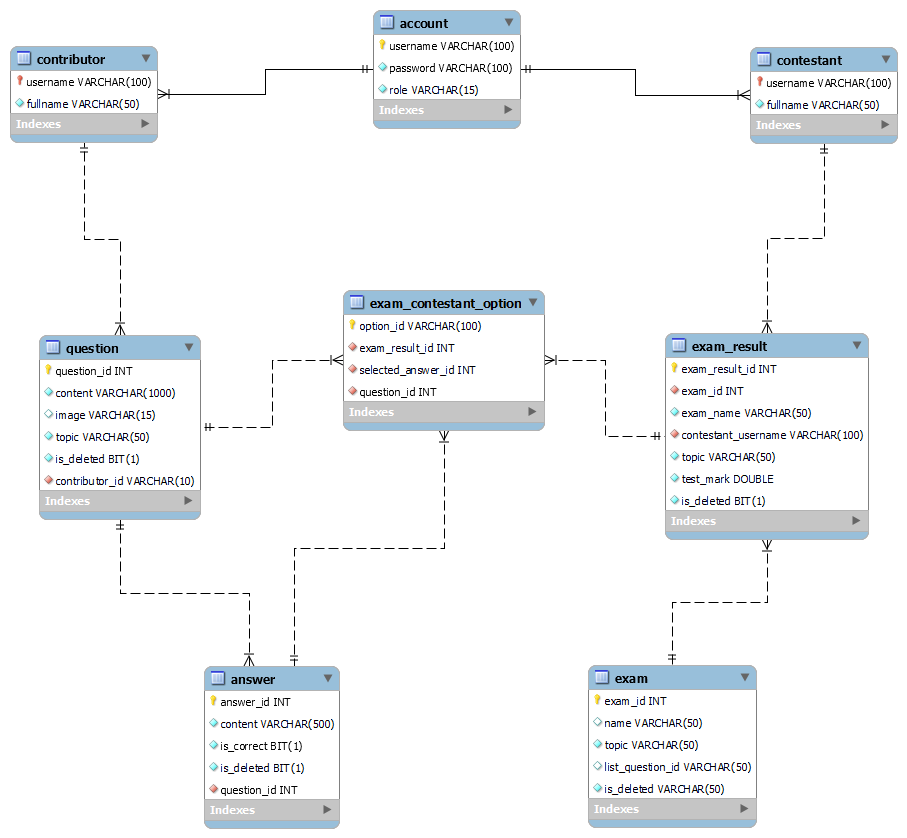
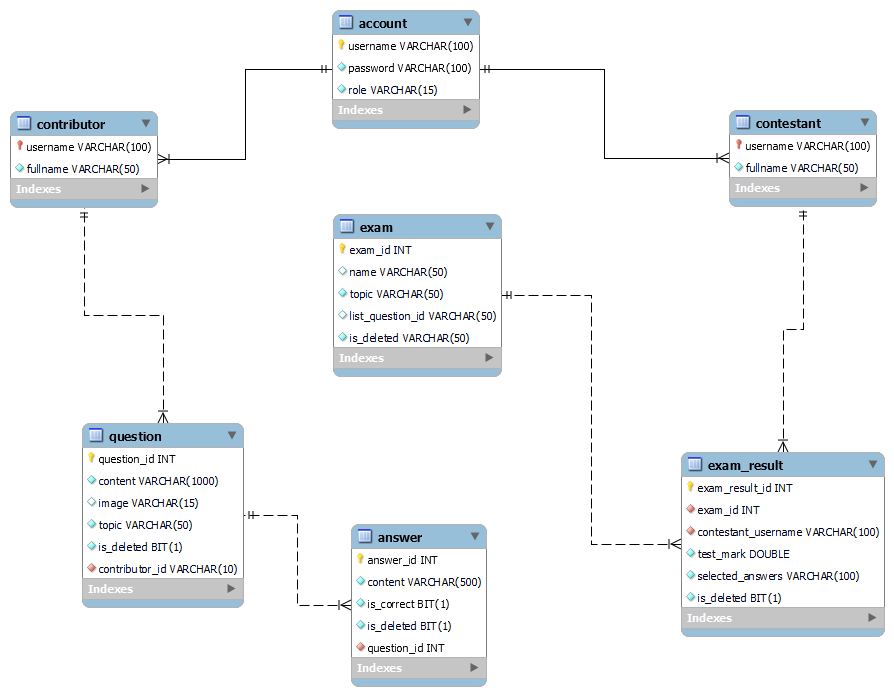
update exam_result table in DB, update ExaResult API

diff --git a/IFI_Fresher_Test/src/main/resources/ifi-fresher-test/src/app/components/contestant/exam/exam.component.ts b/IFI_Fresher_Test/src/main/resources/ifi-fresher-test/src/app/components/contestant/exam/exam.component.ts
@@ -1,8 +1,9 @@
 import { Component, OnInit } from '@angular/core';
 import { Router } from '@angular/router';
 import * as $ from 'jquery';
-import { EXAM_QUESTION_NUMBER } from 'src/app/models/constant';
+
 import { Exam } from 'src/app/models/exam-model';
+import { ExamResult } from 'src/app/models/exam-result-model';
 import { ExamService } from 'src/app/services/exam/exam.service';
 @Component({
   selector: 'app-exam-contestant',
@@ -13,9 +14,11 @@ export class ContestantExamComponent implements OnInit {
 
   exam?: Exam;
 
+  examResult?: ExamResult;
+
   examTime: number = 1800;
 
-  totalQuestion?: number;
+  selected_answer: string = "";
 
   constructor(public router:Router ,private examService: ExamService) { }
 
@@ -24,13 +27,14 @@ export class ContestantExamComponent implements OnInit {
   }
 
   showExamResult() {
-    $('.check-quiz').addClass('hide');
-    $('.exam-result').removeClass('hide').addClass('show');
-
-    if (this.exam?.topic === "Synthesis") {
-      this.totalQuestion = EXAM_QUESTION_NUMBER.ALL_TOPIC;
-    } else {
-      this.totalQuestion = EXAM_QUESTION_NUMBER.ONE_TOPIC;
+    for (let i = 0; i < this.exam!.questionList.length; i++) {
+      if (i === this.exam!.questionList.length-1) {
+        this.selected_answer += $('input:radio[name='+(i+1)+']:checked').attr('id');
+      } else {
+        this.selected_answer += $('input:radio[name='+(i+1)+']:checked').attr('id') + ",";
+      }
     }
+    
+    this.examService.submitExam(this.examResult!)
   }
 }

diff --git a/IFI_Fresher_Test/src/main/resources/ifi-fresher-test/src/app/components/contestant/exam-result/exam-result.component.html b/IFI_Fresher_Test/src/main/resources/ifi-fresher-test/src/app/components/contestant/exam-result/exam-result.component.html
@@ -5,13 +5,11 @@
         <h1 class="exam-topic">Câu hỏi trắc nghiệm chủ đề {{exam?.topic}}</h1>
         <h2 class="exam-name">{{exam?.name}}</h2>
       </div>
-      <div class="col-md-12 exam-time">
-        <countdown [config]="{ leftTime: examTime }"></countdown>
-      </div>
       <div id="contestant-info">
         <div class="form-group col-md-12" style="display: flex; align-items: center;">
           <label class="label col-md-2" for="fullName">Tên người dùng <span>*</span> :</label>
           <input type="text" class="form-control col-md-10" name="username" id="username" placeholder="Nhập tên người dùng">
+          <div class="form-control col-md-10" name="username" id="username">{{examResult?.contestantUsername}}</div>
         </div>
       </div>
     </div>
@@ -24,10 +22,9 @@
       </ul>
     </div>
     <div class="exam-check">
-      <div *ngIf="!this.router.url.includes('exam/result/')">
-        <button type="submit" class="btn btn-primary check-quiz" (click)="showExamResult()" routerLink="/contestant/exam/result/{{exam?.examID}}">Nộp bài</button>
-      </div>
-
+      <div>Tổng số câu trả lời đúng: {{"corrected"}}/{{totalQuestion}}</div>
+      <div> Số điểm bạn đạt được: {{"mark"}} điểm.</div>
     </div>
   </form>
 </div>
+

diff --git a/IFI_Fresher_Test/src/main/resources/ifi-fresher-test/src/app/services/exam/exam.service.ts b/IFI_Fresher_Test/src/main/resources/ifi-fresher-test/src/app/services/exam/exam.service.ts
@@ -1,8 +1,9 @@
 import { Injectable } from '@angular/core';
 import { Observable, of } from 'rxjs';
-import { HttpClient, HttpHeaders } from '@angular/common/http'
+import { HttpClient } from '@angular/common/http'
 import { Exam } from 'src/app/models/exam-model';
 import { HOSTNAME } from '../../models/constant';
+import { ExamResult } from 'src/app/models/exam-result-model';
 
 @Injectable({
   providedIn: 'root'
@@ -10,6 +11,7 @@ import { HOSTNAME } from '../../models/constant';
 export class ExamService {
 
   questions: Exam[]= [];
+  httpClient!: HttpClient;
 
   constructor(private http:HttpClient) { }
 
@@ -26,5 +28,12 @@ export class ExamService {
   private searchExam = `${HOSTNAME.backend}/exam/`
   getExamByID(examID: any): Observable<Exam> {
     return this.http.get<Exam>(this.searchExam + examID);
+  }
+
+  submitExam(examResult: ExamResult) {
+    let addExamResult = `${HOSTNAME.backend}/examResult/add`;
+    this.httpClient.post<Response>(addExamResult,examResult).subscribe((result)=>(
+      console.log(result)
+      ));
   }
 }

diff --git a/IFI_Fresher_Test/src/main/resources/ifi-fresher-test/src/app/components/contestant/exam-result/exam-result.component.ts b/IFI_Fresher_Test/src/main/resources/ifi-fresher-test/src/app/components/contestant/exam-result/exam-result.component.ts
@@ -1,0 +1,33 @@
+import { Component, OnInit } from '@angular/core';
+import { Router } from '@angular/router';
+
+import { EXAM_QUESTION_NUMBER } from 'src/app/models/constant';
+import { Exam } from 'src/app/models/exam-model';
+import { ExamResult } from 'src/app/models/exam-result-model';
+import { ExamService } from 'src/app/services/exam/exam.service';
+
+@Component({
+  selector: 'app-exam-result-contestant',
+  templateUrl: './exam-result.component.html',
+  styleUrls: ['./exam-result.component.css']
+})
+export class ContestantExamResultComponent implements OnInit {
+
+  exam?: Exam;
+
+  examResult?: ExamResult;
+
+  totalQuestion?: number;
+
+  constructor(public router: Router, private examService: ExamService) { }
+
+  ngOnInit(): void {
+    this.examService.getExamByID(this.router.url.substring(24)).subscribe((exam) => (this.exam = exam));
+    if (this.exam?.topic === "Synthesis") {
+      this.totalQuestion = EXAM_QUESTION_NUMBER.ALL_TOPIC;
+    } else {
+      this.totalQuestion = EXAM_QUESTION_NUMBER.ONE_TOPIC;
+    }
+  }
+
+}

diff --git a/IFI_Fresher_Test/src/main/resources/ifi-fresher-test/src/app/components/app-routing.module.ts b/IFI_Fresher_Test/src/main/resources/ifi-fresher-test/src/app/components/app-routing.module.ts
@@ -12,6 +12,7 @@ import { ContestantExamComponent } from './contestant/exam/exam.component';
 import { ContributorHomeComponent } from './contributor/home/home.component';
 import { ContributorExamComponent } from './contributor/exam/exam.component';
 import { QuestionBankComponent } from './contributor/question-bank/question-bank.component';
+import { ContestantExamResultComponent } from './contestant/exam-result/exam-result.component';
 
 const routes: Routes = [
 
@@ -23,6 +24,7 @@ const routes: Routes = [
   {path: 'contestant/home', component: ContestantHomeComponent},
   {path: 'contestant/list', component: ListComponent},
   {path: 'contestant/exam/:examID', component: ContestantExamComponent},
+  {path: 'contestant/exam/result/:examResultID', component: ContestantExamResultComponent},
   {path: 'contestant/unfinished', component: UnfinishedComponent},
 
   {path: 'contestant/topic/HTML', component: ListComponent},

diff --git a/IFI_Fresher_Test/src/main/resources/ifi-fresher-test/src/app/components/app.module.ts b/IFI_Fresher_Test/src/main/resources/ifi-fresher-test/src/app/components/app.module.ts
@@ -29,6 +29,7 @@ import { QuestionBankComponent } from './contributor/question-bank/question-bank
 import { ContestantAnswerComponent } from './contestant/answer/answer.component';
 import { AnswerComponent } from './contributor/answer/answer.component';
 import { NgbModule } from '@ng-bootstrap/ng-bootstrap';
+import { ContestantExamResultComponent } from './contestant/exam-result/exam-result.component';
 
 @NgModule({
   declarations: [
@@ -52,7 +53,8 @@ import { NgbModule } from '@ng-bootstrap/ng-bootstrap';
     ContributorExamComponent,
     ContributorQuestionComponent,
     QuestionBankComponent,
-    AnswerComponent
+    AnswerComponent,
+    ContestantExamResultComponent
   ],
   imports: [
     BrowserModule,

diff --git a/IFI_Fresher_Test/src/main/resources/ifi-fresher-test/src/app/components/contestant/exam-result/exam-result.component.spec.ts b/IFI_Fresher_Test/src/main/resources/ifi-fresher-test/src/app/components/contestant/exam-result/exam-result.component.spec.ts
@@ -1,0 +1,25 @@
+import { ComponentFixture, TestBed } from '@angular/core/testing';
+
+import { ExamResultComponent } from './exam-result.component';
+
+describe('ExamResultComponent', () => {
+  let component: ExamResultComponent;
+  let fixture: ComponentFixture<ExamResultComponent>;
+
+  beforeEach(async () => {
+    await TestBed.configureTestingModule({
+      declarations: [ ExamResultComponent ]
+    })
+    .compileComponents();
+  });
+
+  beforeEach(() => {
+    fixture = TestBed.createComponent(ExamResultComponent);
+    component = fixture.componentInstance;
+    fixture.detectChanges();
+  });
+
+  it('should create', () => {
+    expect(component).toBeTruthy();
+  });
+});

diff --git a/IFI_Fresher_Test/src/main/resources/ifi-fresher-test/src/app/components/contestant/question/question.component.ts b/IFI_Fresher_Test/src/main/resources/ifi-fresher-test/src/app/components/contestant/question/question.component.ts
@@ -20,10 +20,10 @@ export class ContestantQuestionComponent implements OnInit {
   imagePath = PATH.questionImage;
 
   ngOnInit(): void {
-    $("input:checkbox").on('click', function() {
+    $("input:radio").on('click', function() {
       var $box = $(this);
       if ($box.is(":checked")) {
-        var group = "input:checkbox[name='" + $box.attr("name") + "']";
+        var group = "input:radio[name='" + $box.attr("name") + "']";
         $(group).prop("checked", false);
         $box.prop("checked", true);
       } else {

diff --git a/IFI_Fresher_Test/src/main/resources/ifi-fresher-test/src/app/components/contestant/answer/answer.component.ts b/IFI_Fresher_Test/src/main/resources/ifi-fresher-test/src/app/components/contestant/answer/answer.component.ts
@@ -1,6 +1,5 @@
 import { Component, Input, OnInit } from '@angular/core';
 import { Answer } from 'src/app/models/answer-model';
-import { ContestantExamComponent } from '../exam/exam.component'
 
 @Component({
   selector: 'app-answer-contestant',
@@ -17,11 +16,4 @@ export class ContestantAnswerComponent implements OnInit {
 
   ngOnInit(): void {
   }
-
-  isCorrectedAnswer(element: any) {
-    if(element!.answer.isCorrect === true) {
-
-    }
-  }
-
 }

diff --git a/IFI_Fresher_Test/src/main/resources/ifi-fresher-test/src/app/components/contestant/answer/answer.component.html b/IFI_Fresher_Test/src/main/resources/ifi-fresher-test/src/app/components/contestant/answer/answer.component.html
@@ -1,4 +1,4 @@
 <label>
-  <input type="radio" class="option-input radio" [name]="index" (click)="isCorrectedAnswer(this)"/>
+  <input type="radio" class="option-input radio" [name]="index" [id]="answer?.answerID"/>
   <span>{{answer?.content}}</span>
 </label>

diff --git a/IFI_Fresher_Test/src/main/resources/ifi-fresher-test/src/app/models/exam-result-model.ts b/IFI_Fresher_Test/src/main/resources/ifi-fresher-test/src/app/models/exam-result-model.ts
@@ -1,0 +1,8 @@
+export interface ExamResult {
+  examResultID: number;
+  examID: number;
+  contestantUsername: string;
+  testMark: number;
+  selectedAnswers: string;
+  isDeleted: boolean;
+}
